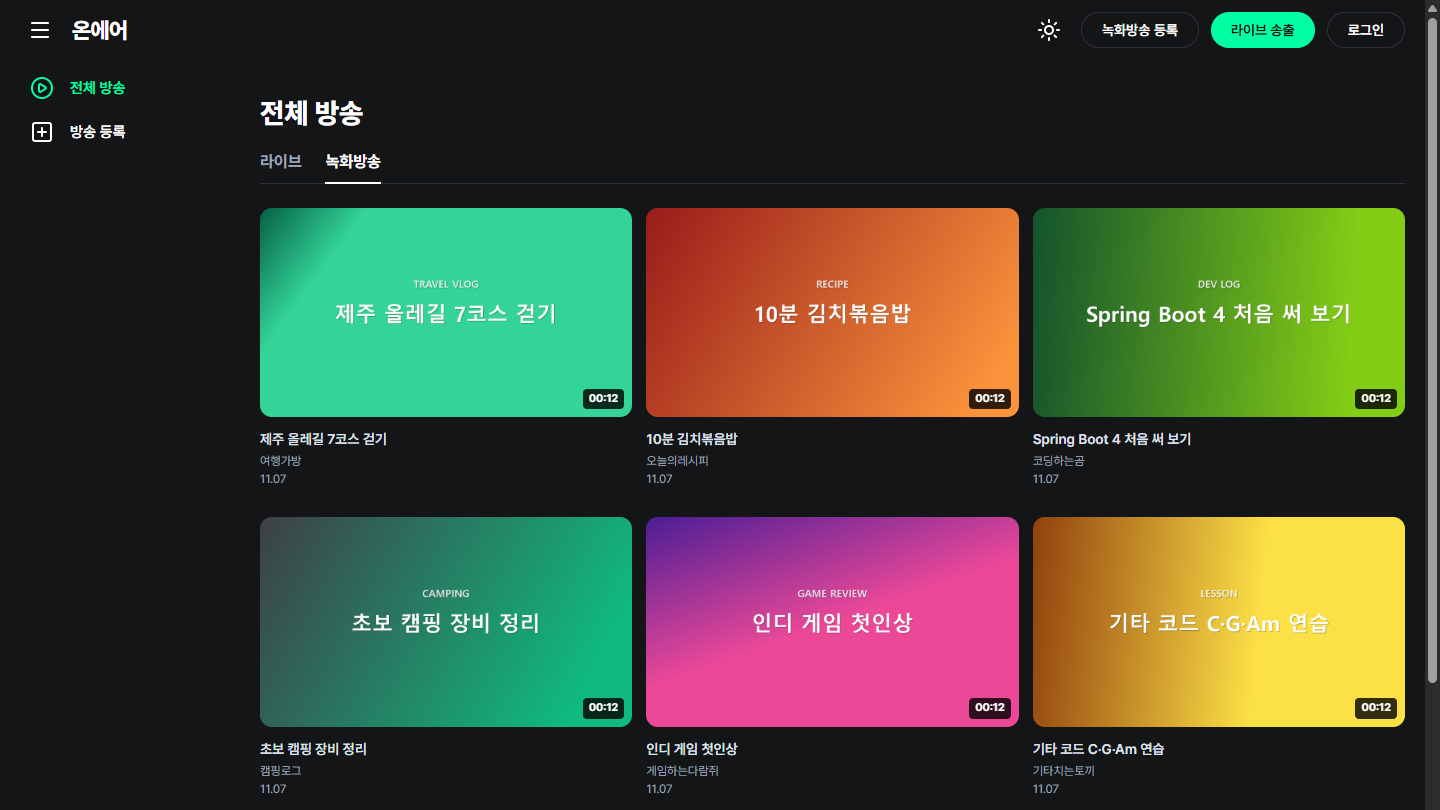
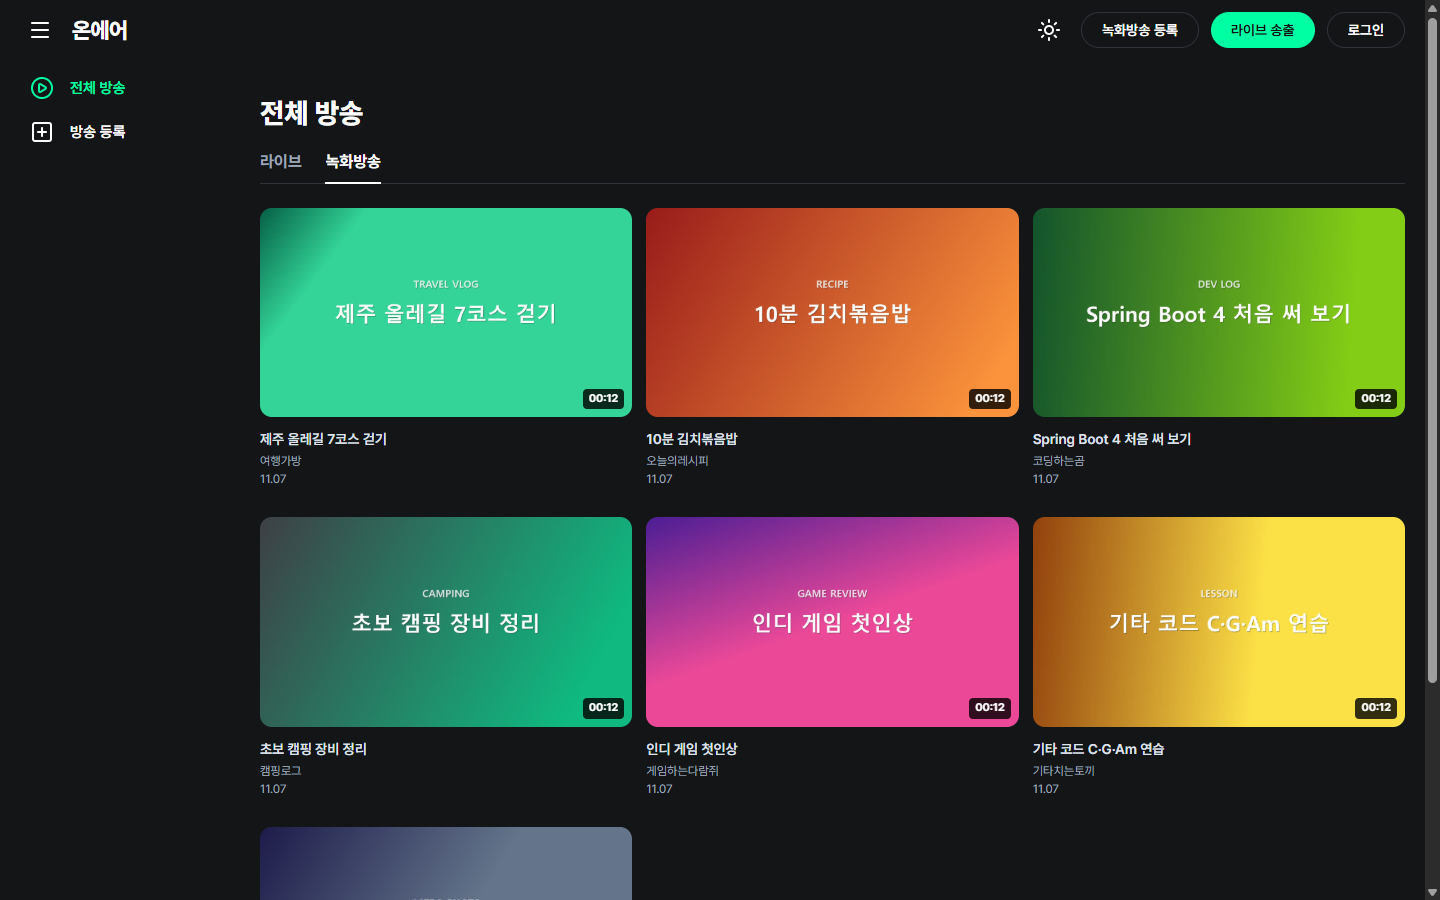
docs: README 화면 배치와 기술적 고민 표를 다듬음
검수 의견을 반영한다. CI·릴리스 배지를 한 줄로 두고, 데스크톱 화면 4장과
휴대폰 화면 3장(Chrome 모바일 에뮬레이션으로 찍은 송출·시청·후원 시트)을
같은 크기의 격자로 배치한다. 섹션 사이에 공백을 넣고, 기술적 고민과 해결은
STAR 항목명을 쓰지 않고 고민·해결·결과 표로 정리한다.

diff --git a/README.md b/README.md
@@ -1,19 +1,35 @@
 # 온에어
 
-[![CI](https://github.com/tbafe26/onair/actions/workflows/ci.yml/badge.svg)](https://github.com/tbafe26/onair/actions/workflows/ci.yml)
-[![Release](https://img.shields.io/github/v/release/tbafe26/onair)](https://github.com/tbafe26/onair/releases/latest)
+[![CI](https://github.com/tbafe26/onair/actions/workflows/ci.yml/badge.svg)](https://github.com/tbafe26/onair/actions/workflows/ci.yml) [![Release](https://img.shields.io/github/v/release/tbafe26/onair)](https://github.com/tbafe26/onair/releases/latest)
 
 녹화방송 · 휴대폰 라이브 송출 · 실시간 채팅 · 후원이 되는 방송 서비스입니다.
 
-<p align="center">
-  <img src="docs/images/live-watch.png" alt="라이브방송 시청 화면: 송출 영상, 후원 합계와 내역, 채팅과 후원 상자" width="100%">
-</p>
+<br>
 
-| 방송 목록 | 후원 패널 | 결제 |
-| --- | --- | --- |
-| <img src="docs/images/broadcast-list.png" alt="녹화방송 목록" width="100%"> | <img src="docs/images/donation-panel.png" alt="채팅 위에 열린 후원 패널" width="100%"> | <img src="docs/images/donation-payment.png" alt="화면 가운데 모달의 테스트 결제위젯" width="100%"> |
+## 화면
 
-> 화면의 채널·방송·채팅은 모두 데모용 더미 데이터이고, 결제는 토스페이먼츠 테스트 모드입니다.
+<table>
+  <tr>
+    <td width="50%" align="center"><img src="docs/images/live-watch.png" alt="라이브방송 시청 화면: 송출 영상, 후원 합계와 내역, 채팅과 후원 상자"><br><sub>라이브 시청 · 채팅 · 후원 내역</sub></td>
+    <td width="50%" align="center"><img src="docs/images/broadcast-list.png" alt="녹화방송 목록"><br><sub>방송 목록</sub></td>
+  </tr>
+  <tr>
+    <td width="50%" align="center"><img src="docs/images/donation-panel.png" alt="채팅 위에 열린 후원 패널"><br><sub>후원 패널</sub></td>
+    <td width="50%" align="center"><img src="docs/images/donation-payment.png" alt="화면 가운데 모달의 테스트 결제위젯"><br><sub>테스트 결제</sub></td>
+  </tr>
+</table>
+
+<table>
+  <tr>
+    <td width="33%" align="center"><img src="docs/images/mobile-broadcast.png" alt="휴대폰 라이브 송출 화면"><br><sub>휴대폰 송출</sub></td>
+    <td width="33%" align="center"><img src="docs/images/mobile-watch.png" alt="휴대폰 시청 화면"><br><sub>휴대폰 시청</sub></td>
+    <td width="33%" align="center"><img src="docs/images/mobile-donation.png" alt="휴대폰 후원 시트"><br><sub>휴대폰 후원</sub></td>
+  </tr>
+</table>
+
+> 화면의 채널·방송·채팅은 모두 데모용 더미 데이터이고, 결제는 토스페이먼츠 테스트 모드입니다. 휴대폰 화면은 Chrome 모바일 에뮬레이션으로 찍었습니다.
+
+<br>
 
 ## 주요 기능
 
@@ -21,6 +37,8 @@
 - **사용자와 권한**: 가입·로그인하면 내가 올리거나 송출한 방송을 직접 관리(제목 수정, 삭제, 송출 종료)합니다.
 - **댓글과 채팅**: 녹화방송에는 댓글을 남기고, 라이브방송에서는 실시간으로 채팅합니다.
 - **후원**: 방송 중인 라이브방송에 금액과 메시지를 골라 테스트 결제로 후원하면, 채팅에 바로 나타나고 방송별 내역과 합계에 쌓입니다.
+
+<br>
 
 ## 기술 스택
 
@@ -31,6 +49,8 @@
 | 실시간 | ![WebRTC](https://img.shields.io/badge/WebRTC-333333?logo=webrtc&logoColor=white) ![WebSocket](https://img.shields.io/badge/WebSocket-010101?logoColor=white) |
 | 결제 | ![Toss Payments](https://img.shields.io/badge/토스페이먼츠_결제위젯-3182F6?logoColor=white) |
 | 테스트·CI | ![JUnit](https://img.shields.io/badge/JUnit_5-25A162?logo=junit5&logoColor=white) ![Vitest](https://img.shields.io/badge/Vitest-6E9F18?logo=vitest&logoColor=white) ![GitHub Actions](https://img.shields.io/badge/GitHub_Actions-2088FF?logo=githubactions&logoColor=white) ![CodeQL](https://img.shields.io/badge/CodeQL-2F4F4F?logo=github&logoColor=white) ![gitleaks](https://img.shields.io/badge/gitleaks-CC2936?logoColor=white) |
+
+<br>
 
 ## 구성
 
@@ -47,28 +67,17 @@
 | 영상 | 라이브 영상은 송출자와 시청자가 WebRTC로 직접 주고받고, 서버는 영상을 거치지 않습니다. |
 | 결제 | 브라우저는 토스 결제위젯으로 결제하고, 서버가 토스 승인 API로 확정합니다. 승인 통지(웹훅)도 받습니다. |
 
+<br>
+
 ## 기술적 고민과 해결
 
-### 1. 결제 확정과 중복 방지
+| 고민 | 어떻게 풀었나 | 결과 |
+| --- | --- | --- |
+| **결제 확정과 중복 방지**<br>화면이 보낸 "성공"은 믿을 수 없고, 같은 결제의 승인 요청·승인 통지가 여러 번·동시에 올 수 있다. 실제로 승인된 결제만 정해진 금액과 받는 사람으로 한 번만 적립해야 한다. | 결제 전에 서버가 금액과 받는 사람(방송 소유자)을 정해 대기 후원을 만든다. 승인 때 저장값을 대조하고 토스 승인 API 응답의 상태·금액·주문 번호를 다시 확인한다. 확정은 "아직 확정되지 않았을 때만" 바꾸는 조건부 갱신과 주문 번호·결제 키 unique 제약으로 막고, 승인 통지는 본문 대신 토스 재조회로 판단한다. 코드 리뷰에서 찾은 "결제됐는데 취소로 남는" 경쟁 상태도 고쳤다. | 반복·동시 승인과 겹치는 승인 통지에도 후원은 한 건만 확정된다. 동시성 테스트와 실제 테스트 결제로 확인했다. |
+| **미디어 서버 없는 휴대폰 라이브 송출**<br>휴대폰 카메라 영상을 다른 기기에서 실시간으로 보여 줘야 하지만, 미디어 서버를 따로 운영하기에는 규모가 작다. | 영상은 WebRTC P2P로 송출자와 시청자가 직접 주고받고, 서버는 WebSocket으로 연결 신호만 중계한다. 송출자 생존 신호가 30초 넘게 끊기면 방송을 끝내고, 시청자 수에 상한을 둔다. 휴대폰 카메라를 쓰려고 개발 서버를 HTTPS로 연다. | 같은 네트워크에서 휴대폰 송출과 PC·휴대폰 시청이 되고, 끊긴 방송이 목록에 남지 않는다. |
+| **서버에서 하는 권한 검사**<br>로그인이 생기면서 방송 관리·송출·댓글 삭제의 권한을 정해야 하고, 화면에서 버튼을 숨기는 것만으로는 막을 수 없다. 송출 키가 새어 나가도 남이 송출하면 안 된다. | Spring Security 서버 세션과 SPA용 CSRF 토큰을 쓰고, 판정 순서를 401(로그인) → 404(대상) → 403(소유자·작성자) → 409(상태)로 통일해 한 곳에서 검사한다. 송출자로 참가할 때는 송출 키와 소유자를 함께 확인한다. | 비로그인·소유자·다른 사용자로 같은 요청을 보내는 표 형태의 테스트로 모든 권한을 확인한다. |
 
-- **상황**: 결제창이 "성공"으로 돌아와도 그 값은 화면이 보낸 것이라 믿을 수 없고, 같은 결제의 승인 요청이나 승인 통지가 여러 번·동시에 들어올 수 있었습니다.
-- **과제**: 실제로 승인된 결제만, 정해진 금액과 받는 사람으로, 정확히 한 번 적립해야 했습니다.
-- **행동**: 결제 전에 서버가 금액과 받는 사람(방송 소유자)을 정해 대기 후원을 만들고, 승인 때 저장값을 대조한 뒤 토스 승인 API를 호출해 응답의 상태·금액·주문 번호까지 다시 확인했습니다. 확정은 "아직 확정되지 않았을 때만 바꾸는" 조건부 갱신으로 하고, 주문 번호와 결제 키에 unique 제약을 걸었습니다. 승인 통지는 본문을 믿지 않고 토스에 다시 조회해 같은 경로를 타게 했습니다. 코드 리뷰에서 "결제는 됐는데 그사이 취소 기록이 먼저 들어가 후원이 사라지는" 경쟁 상태를 찾아, 결제가 확인되면 확정하도록 고쳤습니다.
-- **결과**: 같은 승인을 반복·동시에 보내거나 승인 통지가 겹쳐도 후원은 한 건만 확정되고, 이를 동시성 테스트와 실제 테스트 결제로 확인했습니다.
-
-### 2. 미디어 서버 없는 휴대폰 라이브 송출
-
-- **상황**: 휴대폰 카메라 영상을 다른 기기에서 실시간으로 봐야 했지만, 별도 미디어 서버를 운영하기에는 규모가 작았습니다.
-- **과제**: 서버 부담 없이 지연이 짧은 송출과, 송출이 끊겼을 때의 정리가 필요했습니다.
-- **행동**: 영상은 WebRTC P2P로 송출자와 시청자가 직접 주고받고, 서버는 WebSocket으로 연결 신호만 중계하게 했습니다. 송출자 생존 신호가 30초 넘게 끊기면 방송을 종료하고, 시청자 수 상한을 두었습니다. 휴대폰 카메라를 쓰려고 개발 서버를 HTTPS로 열었습니다.
-- **결과**: 같은 네트워크에서 휴대폰 송출과 PC·휴대폰 시청이 되고, 송출 탭을 닫거나 연결이 끊긴 방송이 목록에 남지 않습니다.
-
-### 3. 서버에서 하는 권한 검사
-
-- **상황**: 로그인이 생기면서 방송 수정·삭제, 송출, 댓글 삭제를 누가 할 수 있는지 정해야 했고, 화면에서 버튼을 숨기는 것만으로는 막을 수 없었습니다.
-- **과제**: 모든 요청을 서버가 같은 기준으로 판정하고, 송출 키가 새어 나가도 남이 송출하지 못하게 해야 했습니다.
-- **행동**: Spring Security 서버 세션과 SPA용 CSRF 토큰을 쓰고, 판정 순서를 401(로그인) → 404(대상) → 403(소유자·작성자) → 409(상태)로 통일해 한 곳에서 검사했습니다. 송출자로 참가할 때는 송출 키와 함께 소유자인지도 확인했습니다.
-- **결과**: 비로그인·소유자·다른 사용자로 같은 요청을 보내는 표 형태의 테스트로 모든 권한을 확인합니다.
+<br>
 
 ## 개발 과정
 
@@ -85,6 +94,8 @@
 - 커밋 훅·CI의 gitleaks와 PR 본문 검사로 비밀 값과 개인 정보가 저장소에 올라가지 않게 막습니다.
 
 변경 내역은 [CHANGELOG.md](CHANGELOG.md)에 있습니다.
+
+<br>
 
 ## 실행 방법
 
